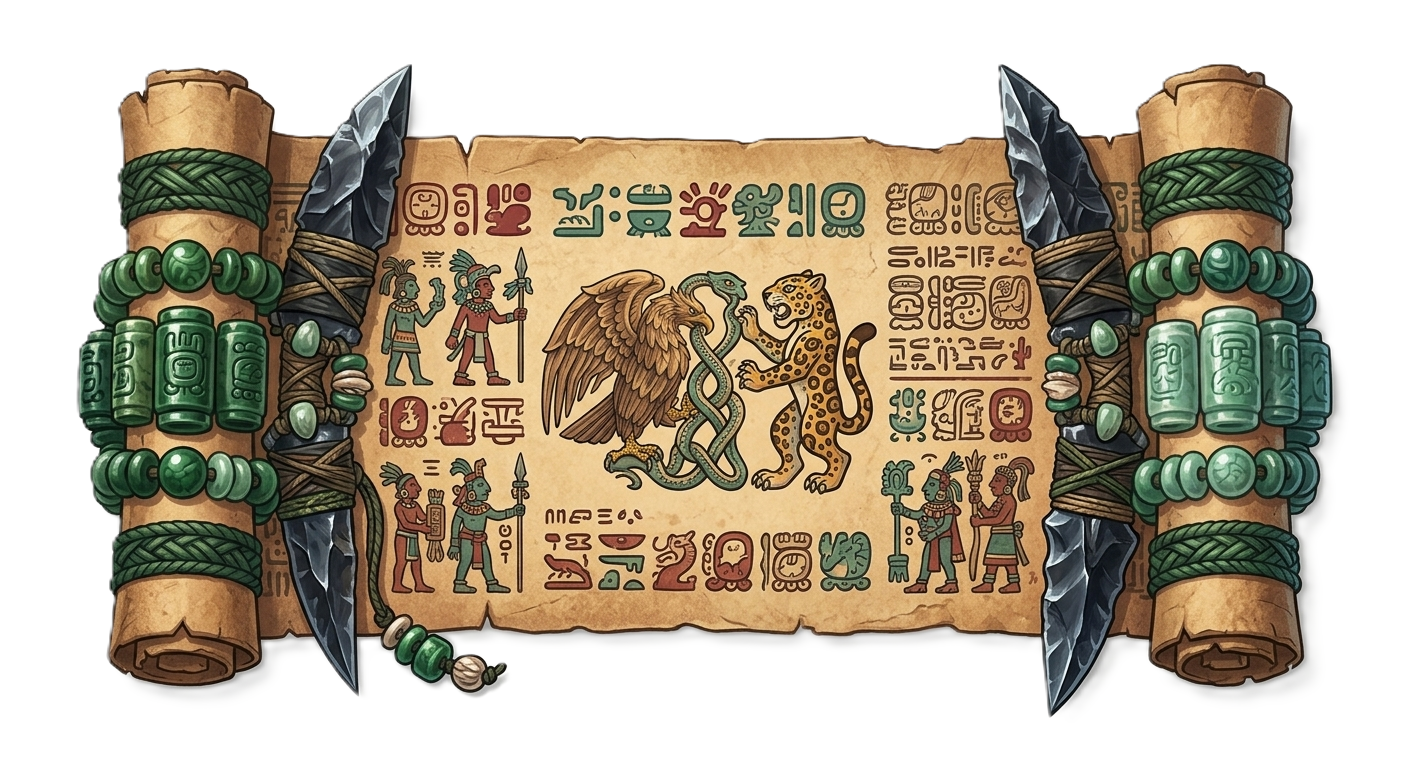
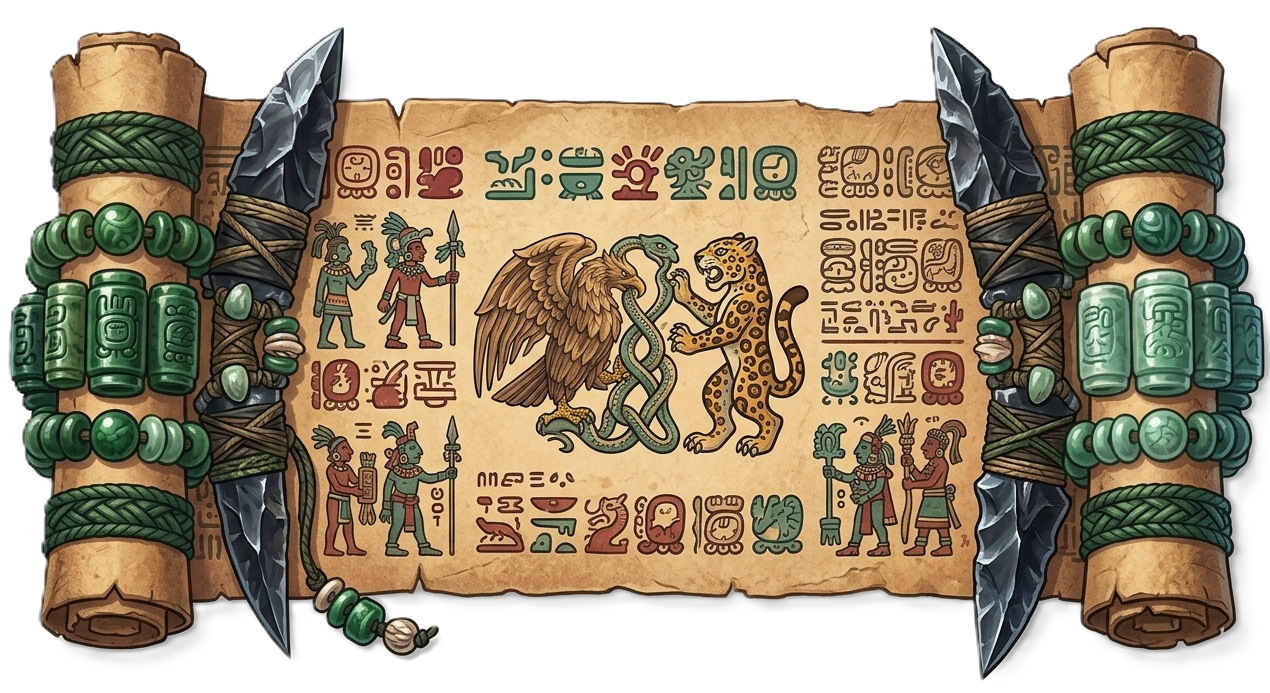
tarjetas

diff --git a/script.js b/script.js
@@ -144,7 +144,7 @@ const niveles = {
     1: {
         titulo: "El auge de la cultura olmeca",
         fecha: "1200–400 a. C.",
-        texto: "Los olmecas construyeron centros ceremoniales, cultivaron maíz y tallaron monumentales cabezas de piedra. Su cultura influyó en otros pueblos de Mesoamérica.",
+        texto: "Los olmecas construyeron centros ceremoniales, cultivaron maíz y crearon esculturas monumentales incluidas las famosas cabezas colosales. Su cultura influyó en otros pueblos mesoamericanos.",
         dato: "Son considerados una de las primeras grandes civilizaciones mesoamericanas.",
         imagen: "img/olmeca.png"
     },
@@ -152,59 +152,65 @@ const niveles = {
         titulo: "El esplendor de Teotihuacán",
         fecha: "100–650 d. C.",
         texto: "Teotihuacán fue una gran ciudad con impresionantes pirámides, barrios organizados y extensas redes comerciales que conectaban distintas regiones.",
-        dato: "Sus construcciones más famosas son las pirámides del Sol y de la Luna."
+        dato: "Su nombre en náhuatl suele interpretarse como <<Lugar donde nacen los dioses>>.",
+        imagen: "img/teoticuacán.png"
     },
     3: {
         titulo: "La transformación de las ciudades mayas",
         fecha: "800–900 d. C.",
-        texto: "Numerosas ciudades mayas de las tierras bajas del sur perdieron población e influencia. Las sequías, los conflictos y otros factores contribuyeron a estos cambios.",
-        dato: "La civilización maya no desapareció: sus pueblos y culturas continúan vivos."
+        texto: "Numerosas ciudades mayas de las tierras bajas del sur perdieron población y poder. Las sequías, los conflictos y otros factores contribuyeron a estos cambios.",
+        dato: "La civilización maya no desapareció: sus pueblos y culturas continúan vivos.",
+        imagen: "img/maya.png"
     },
     4: {
         titulo: "La fundación de Tenochtitlan",
         fecha: "1325 d. C. (fecha tradicional)",
-        texto: "Según la tradición mexica, un águila sobre un nopal señaló el lugar donde fundarían México-Tenochtitlan, en un islote del lago de Texcoco.",
-        dato: "La ciudad se convirtió en un importante centro político y económico."
+        texto: "Los mexicas fundaron México-Tenochtitlan en un islote del lago de Texcoco. La tradición relata la señal de un águila sobre un nopal coo símbolo de su destino.",
+        dato: "La ciudad se convirtió en un importante centro político y económico de un poderoso imperio.",
+        imagen: "img/fundación.png"
     },
     5: {
         titulo: "La Triple Alianza",
         fecha: "1428 d. C.",
-        texto: "Tenochtitlan, Texcoco y Tlacopan formaron una alianza política y militar que amplió su poder sobre numerosos pueblos.",
-        dato: "Sus integrantes colaboraban, aunque Tenochtitlan llegó a ejercer una posición dominante.",
+        texto: "Tenochtitlan, Texcoco y Tlacopan formaron una alianza política y militar. Juntos expandieron su infliencia y establecieron tributos sobre numerosos pueblos.",
+        dato: "La alinaza cambió el equilibrio de poder en Mesoamérica, aunque Tenochtitlan llegó a ejercer una posición dominante.",
+        imagen: "img/Talianza.png"
         
     },
     6: {
         titulo: "La alianza de Tlaxcala",
         fecha: "Septiembre de 1519",
-        texto: "Después de enfrentamientos, los tlaxcaltecas establecieron una alianza con Hernán Cortés y participaron en las campañas contra los mexicas.",
-        dato: "Las alianzas indígenas fueron fundamentales durante la Conquista.",
+        texto: "Tras enfrentamientos con los españoles, los tlaxcaltecas establecieron una alianza con Hernán Cortés y participaron en las campañas contra los mexicas.",
+        dato: "La Conquista involucró alianzas indígenas, rivalidades políticas y diversos intereses.",
         imagen: "img/alianza.png"
     },
     7: {
         titulo: "El encuentro en Tenochtitlan",
         fecha: "8 de noviembre de 1519",
-        texto: "Moctezuma Xocoyotzin recibió a Hernán Cortés en la capital mexica. El encuentro dio paso a una relación tensa.",
+        texto: "Moctezuma Xocoyotzin recibió a Hernán Cortés en la capital mexica. El encuentro dio paso a una relación tensa que pronto se transformarías en conflicto.",
         dato: "Tenochtitlan impresionó por sus calzadas, canales y grandes construcciones.",
         imagen: "img/encuentro.png"
     },
     8: {
         titulo: "La matanza del Templo Mayor",
         fecha: "Mayo de 1520",
-        texto: "Durante la fiesta de Tóxcatl, las tropas de Pedro de Alvarado atacaron a participantes mexicas, provocando una fuerte reacción contra los españoles.",
+        texto: "Durante la fiesta de Tóxcatl, las tropas de Pedro de Alvarado atacaron a participantes mexicas, provocando una grave crisis y aumentó la resistencia contra los españoles.",
         dato: "El ataque agravó el conflicto dentro de Tenochtitlan.",
         imagen: "img/matanza.png"
     },
     9: {
         titulo: "La Noche Triste",
         fecha: "30 de junio–1 de julio de 1520",
-        texto: "Los españoles y sus aliados intentaron salir de Tenochtitlan durante la noche, pero fueron descubiertos y sufrieron grandes pérdidas.",
-        dato: "Cuitláhuac asumió el liderazgo mexica tras la muerte de Moctezuma."
+        texto: "Los españoles y sus aliados intentaron escapar de Tenochtitlan durante la noche, pero fueron descubiertos mientras cruzaban las calzadas y sufrieron grandes pérdidas.",
+        dato: "Cuitláhuac asumió el liderazgo mexica tras la muerte de Moctezuma.",
+        imagen:"img/nochetriste.png"
     },
     10: {
         titulo: "La caída de Tenochtitlan",
         fecha: "13 de agosto de 1521",
-        texto: "Después de un asedio por tierra y agua, las fuerzas españolas y sus aliados indígenas conquistaron Tenochtitlan. Las epidemias, la falta de alimentos y los combates contribuyeron a la caída.",
-        dato: "Cuauhtémoc fue capturado y terminó el poder imperial mexica."
+        texto: "Después de un asedio por tierra y agua, las fuerzas españolas y sus aliados indígenas conquistaron Tenochtitlan. Las epidemias, la falta de alimentos y los combates contribuyeron a la caída. Cuahutémoc fue capturado.",
+        dato: "La caída de Tenochtitlan puso fin al Imperio Mexica e inició la colonización española, transformando radicalmente la región.",
+        imagen: "img/Caída.png"
     }
 };
 

diff --git a/style.css b/style.css
@@ -420,17 +420,28 @@ button {
     animation: aparecer 0.3s ease;
 }
 
-/* IMAGEN FLOTANTE LIBRE EN LA ESQUINA INFERIOR DERECHA */
+    /* IMAGEN DE FONDO / MARCA DE AGUA CENTRADA */
 .img-esquina-derecha {
     position: absolute;
-    bottom: 12px;
-    right: -22px;
-    width: 250px;
+    top: 50%;
+    left: 50%;
+    transform: translate(-50%, -50%); /* Centra la imagen de forma exacta en el medio */
+    width: 65%;                       /* Un tamaño perfecto que llena el fondo sin estorbar */
     height: auto;
     object-fit: contain;
-    pointer-events: none; /* Para que no estorbe si le dan clic encima */
-    filter: drop-shadow(0 0 8px rgba(240, 192, 64, 0.5));
-    opacity: 0.9;
+    z-index: 1;                       /* Detrás del texto, pero dentro de la tarjeta */
+    opacity: 0.35;                    /* Transparencia ideal para que las letras se lean al 100% */
+    filter: contrast(1.1) saturate(1.1); /* Esto aviva un poco los colores y la hace destacar más */
+    pointer-events: none;             /* Evita que bloquee clics en el texto o botones */
+}
+
+/* ASEGURAR QUE EL TEXTO ESTÉ POR ENCIMA DE LA IMAGEN */
+.contenido-modal-neon h2,
+.contenido-modal-neon p,
+.contenido-modal-neon h3,
+.contenido-modal-neon button {
+    position: relative;
+    z-index: 2; /* Todo el texto flota con claridad por encima de la ilustración */
 }
 
 .contenido-modal-neon h2 {
